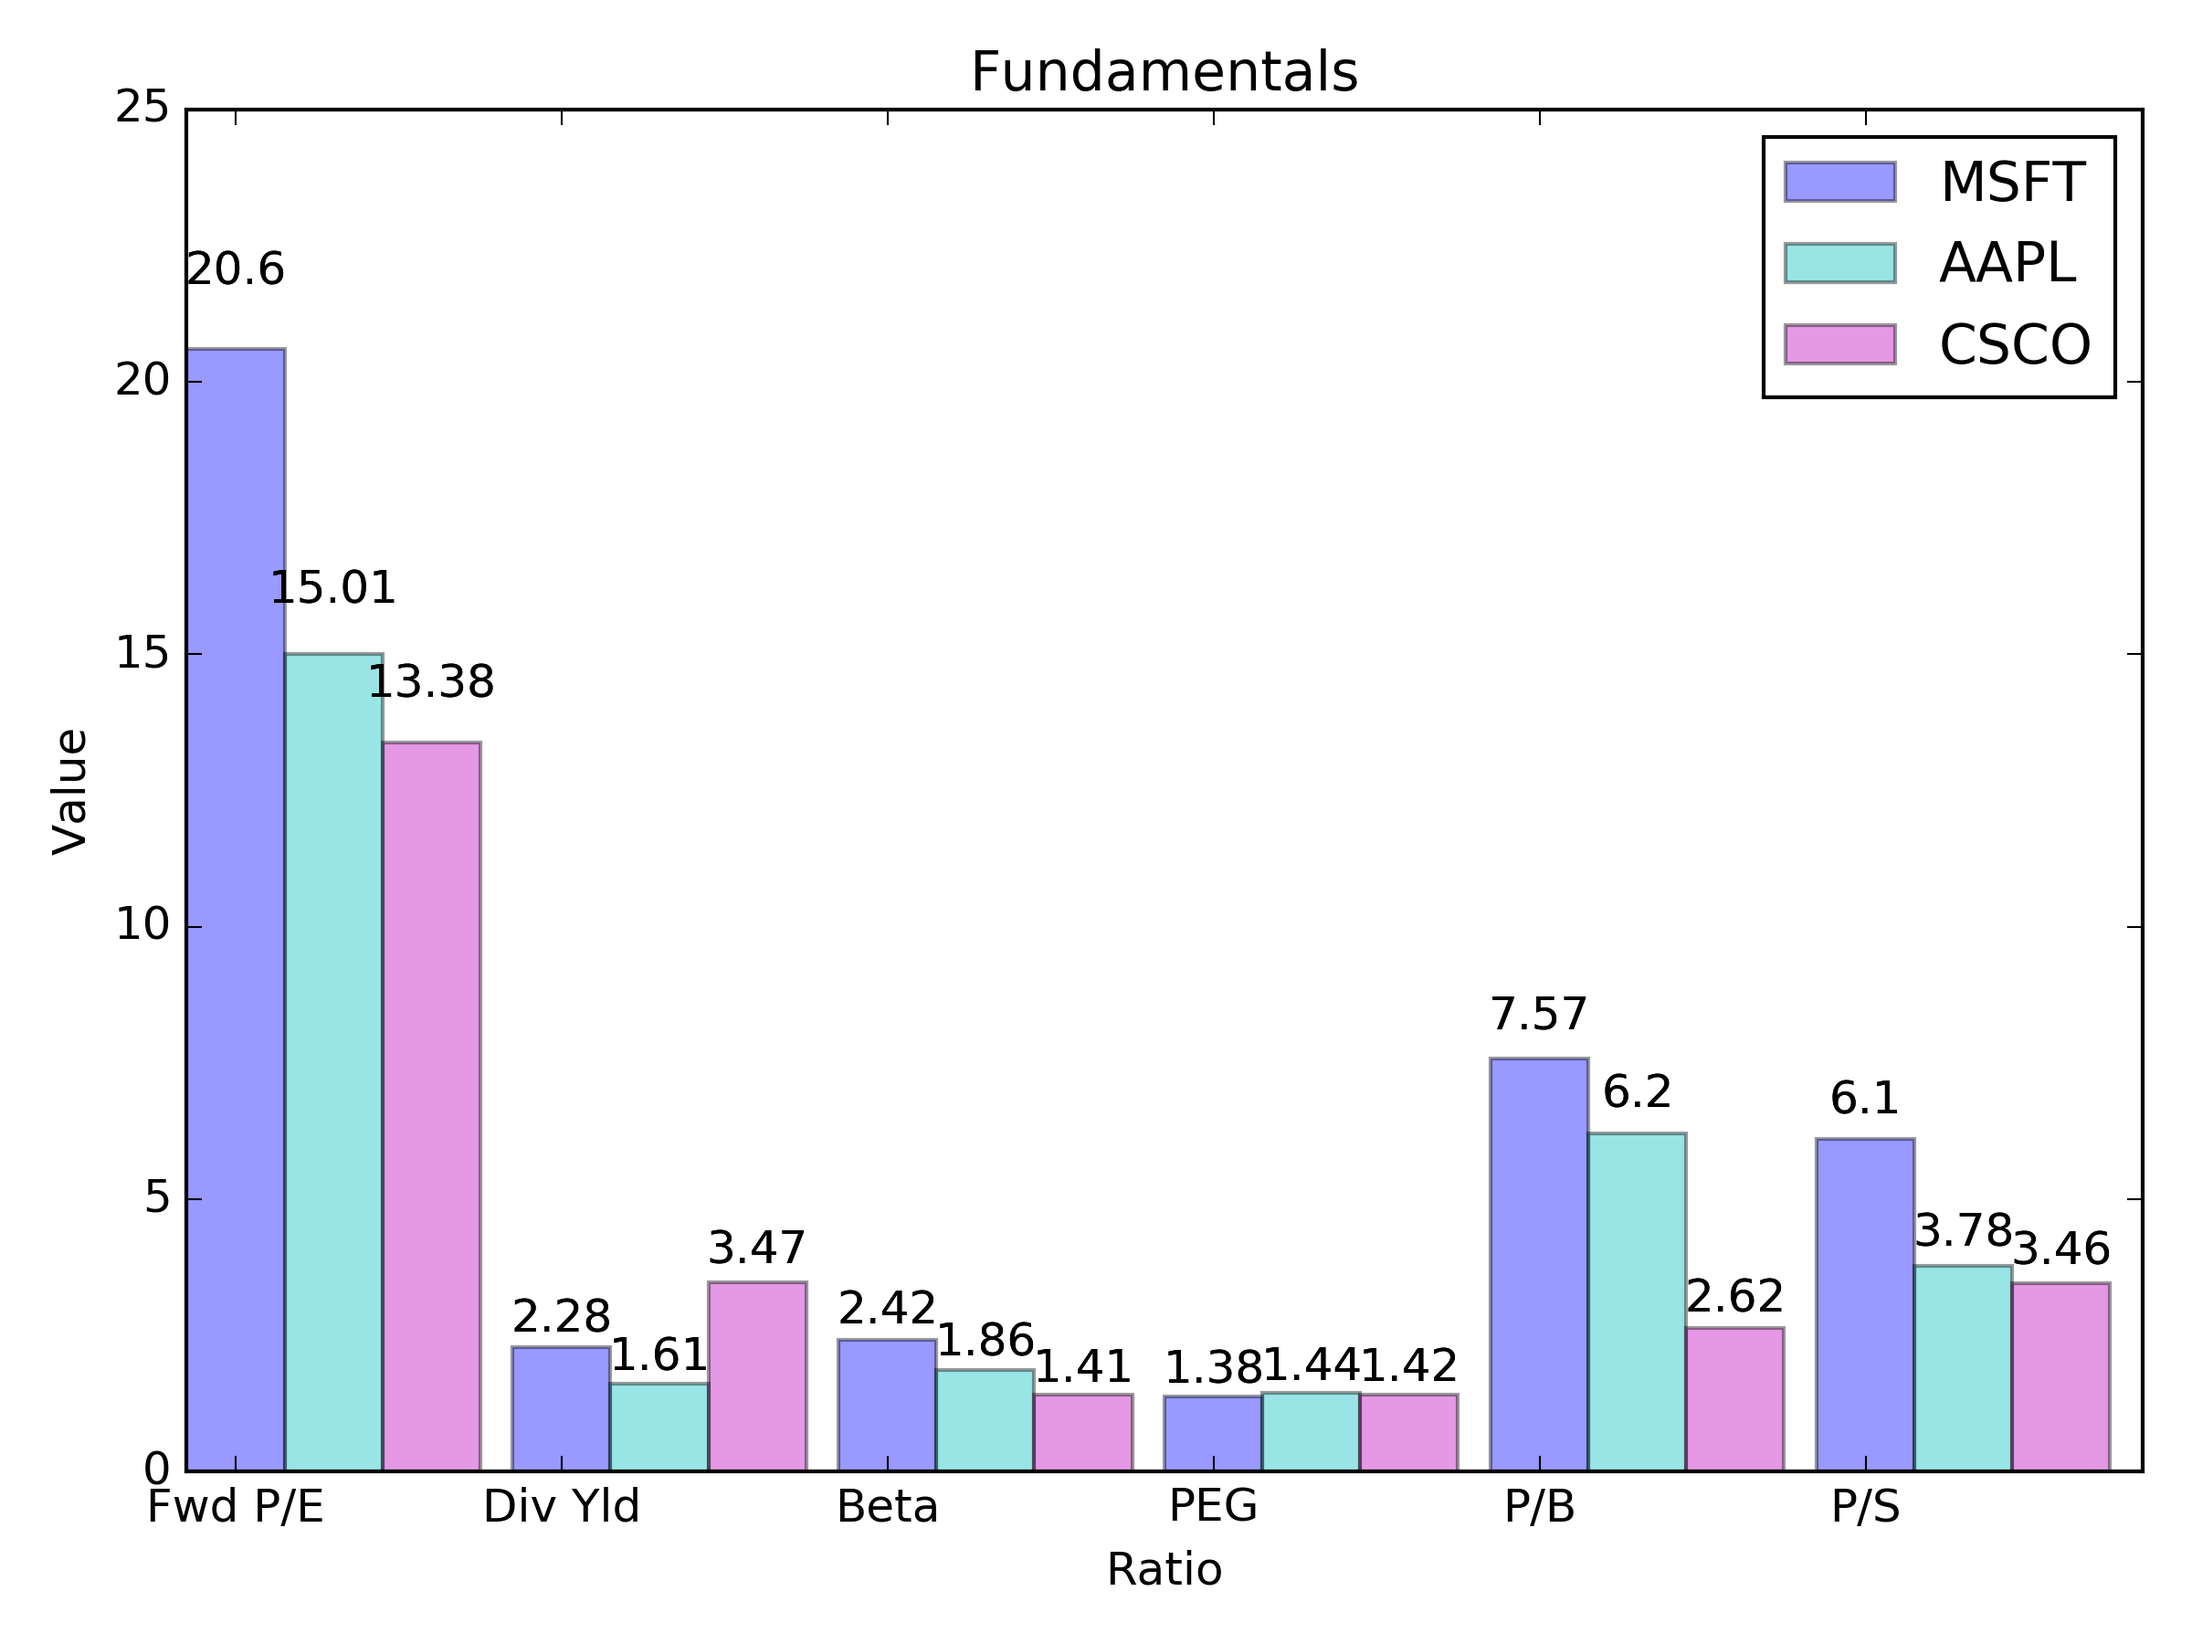
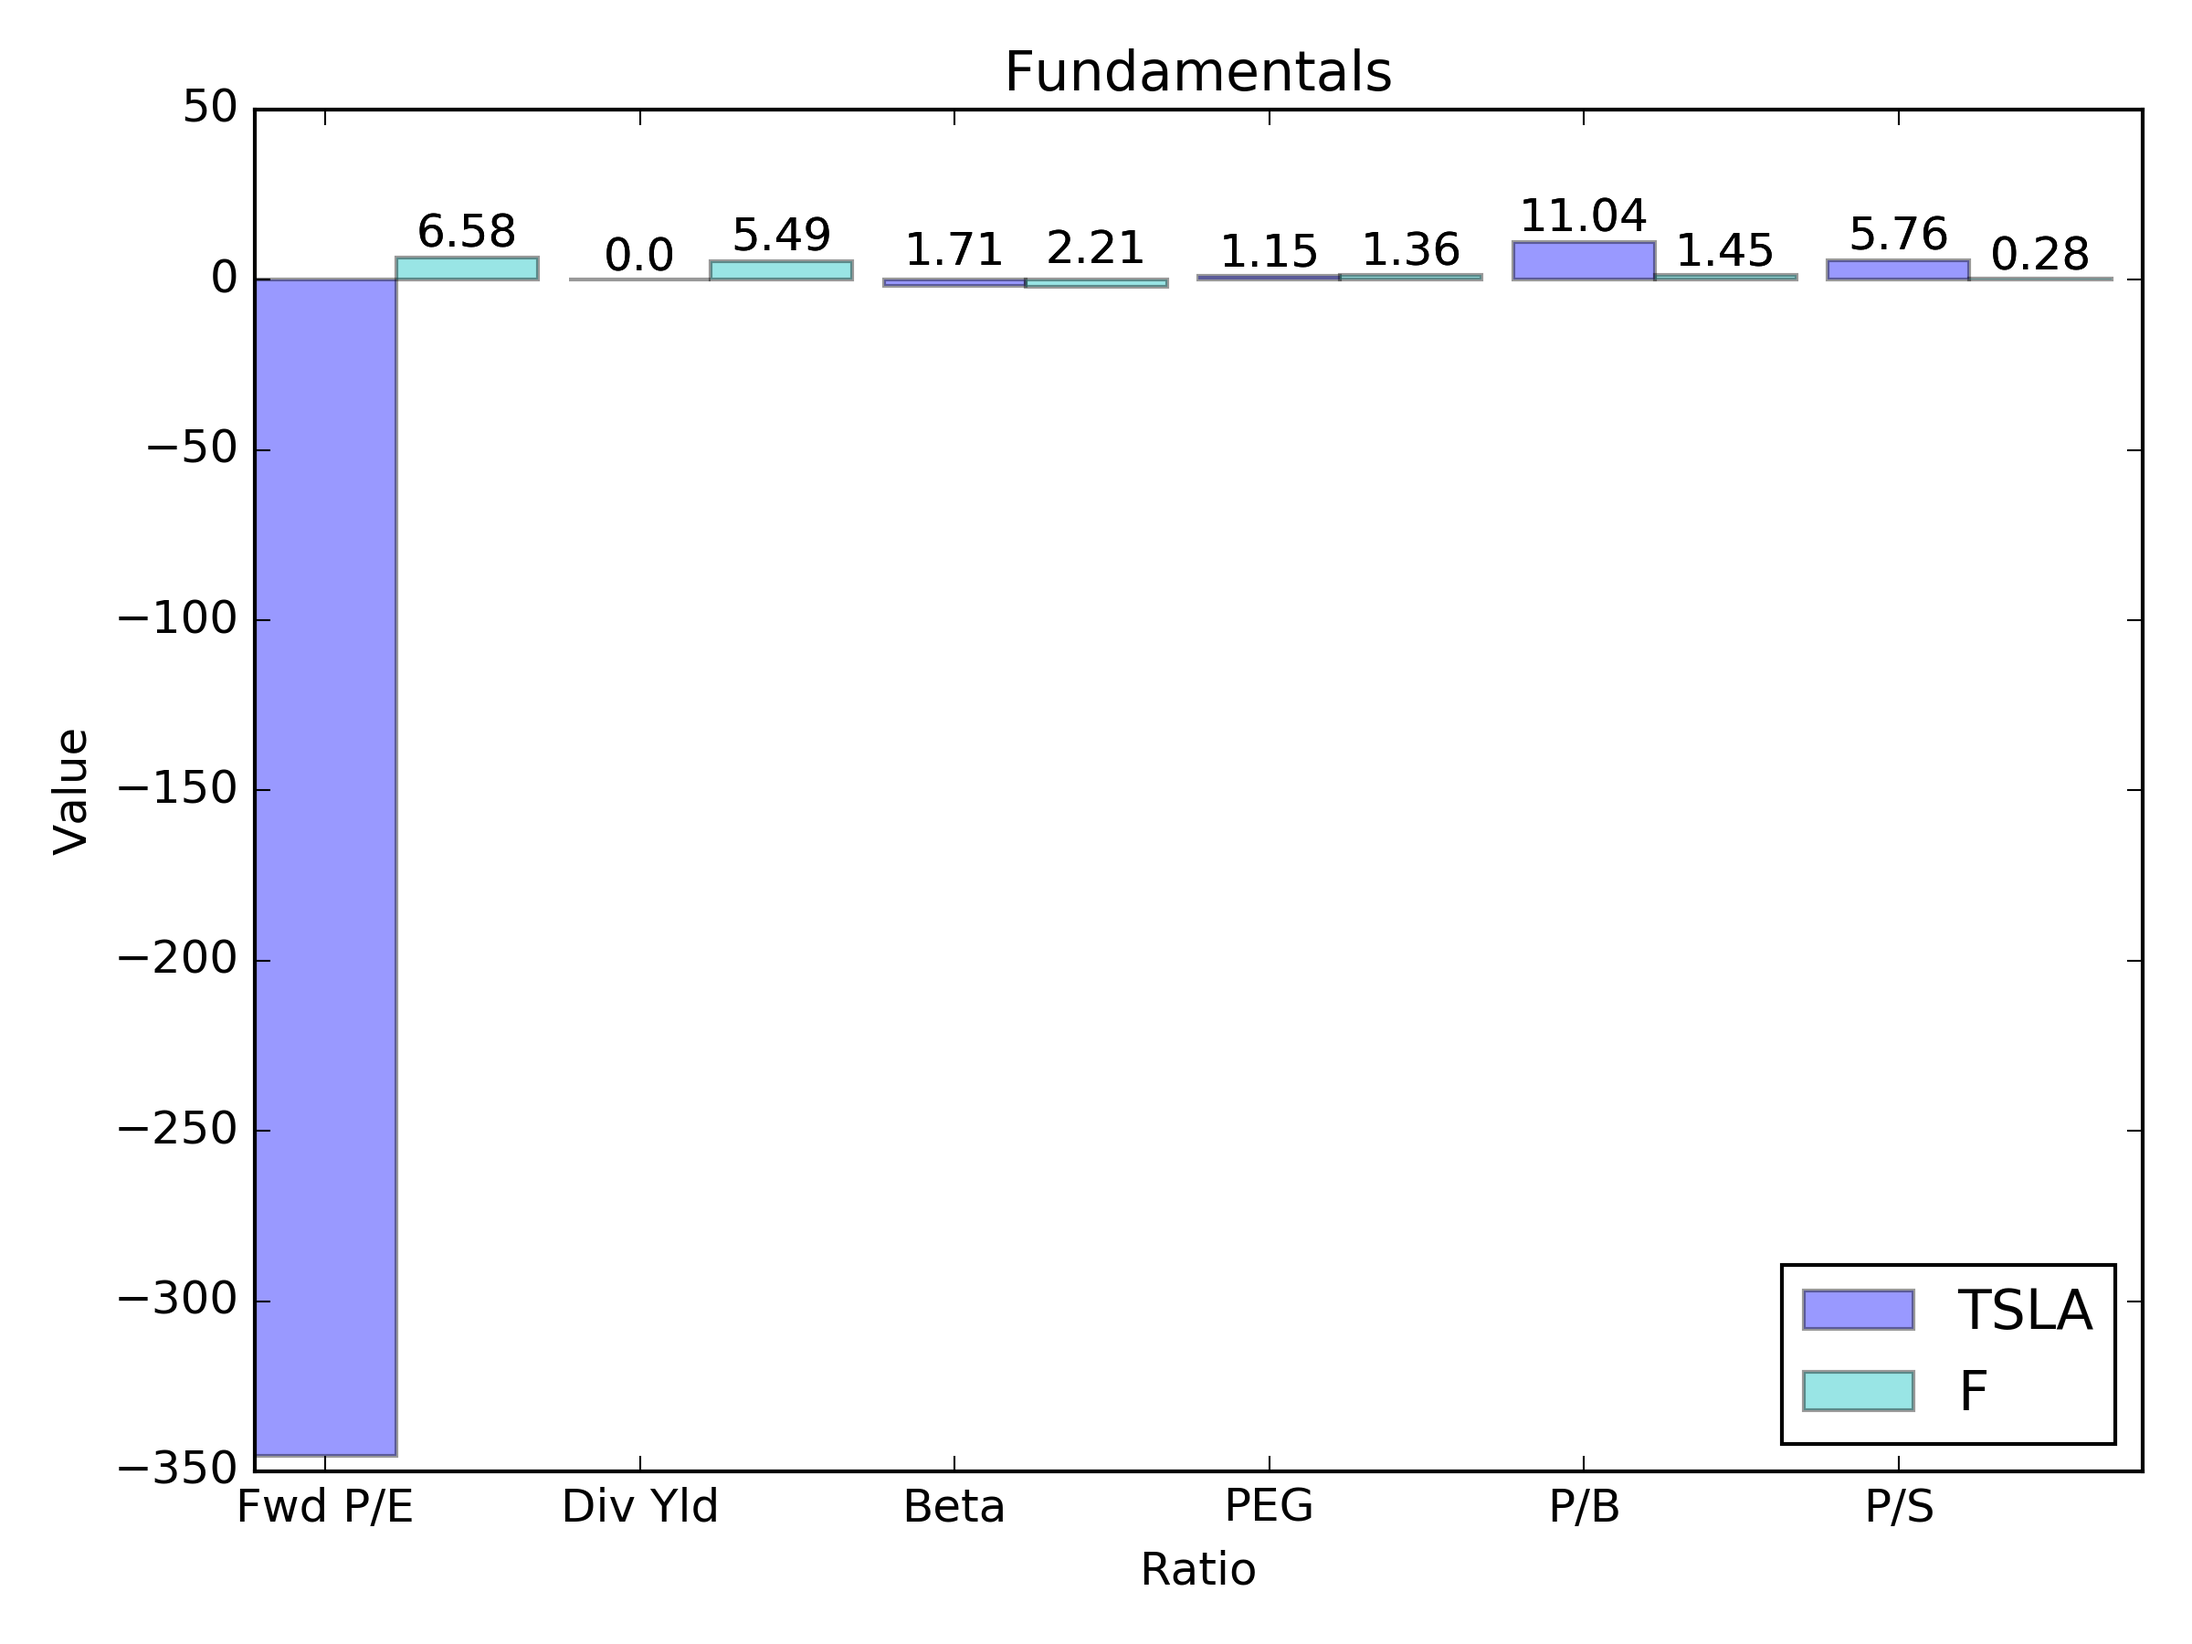
still having problems fetching s and p 500 data of all things

diff --git a/app/equity/data_grab/morningstar_dg.py b/app/equity/data_grab/morningstar_dg.py
@@ -56,8 +56,6 @@ def makeAPICall(tick):
     data = pruneData(data, dates, tick)
     return data
     
-    
-    
 
 def pruneData(df, dates, tick):
     df = df.set_index(0)
@@ -88,14 +86,13 @@ def addCustomColumns(df):
     end_date_ls = [int(d) for d in datetime.date.today().strftime('%Y-%m-%d').split("-")]
     end = datetime.date(end_date_ls[0], end_date_ls[1], end_date_ls[2])
     import pdb; pdb.set_trace()
-    market = DataReader(".INX", 'google', start, end)['Close']
-    quotes = DataReader(df.index.get_level_values('ticker')[0], 'google', start, end)['Close']
-    quotes['market'] = market
-    import pdb; pdb.set_trace()
+    quotes = DataReader(df.index.get_level_values('ticker')[0], 'google', start, end, pause=1)['Close']
     qr = quotes.reset_index()
     df = addBasicCustomCols(df, qr)
     df = addGrowthCustomCols(df, qr)
     df = addTimelineCustomCols(df, qr, quotes)
+    market = DataReader("^GSPC", 'yahoo', start, end, pause=1)['Close']
+    quotes['market'] = market
     '''
     Still need to do:
     'enterpriseToEbitda'
@@ -104,7 +101,6 @@ def addCustomColumns(df):
     'shortRatio'
     
     'Treynor / beta'
-    'sortino / downside vol'
     '''
     return df
     
@@ -115,16 +111,13 @@ def addTimelineCustomCols(df, qr, quotes):
                         int(x['month']),1)].iloc[0]['Close'], axis=1)
     df['200DayMvgAvg'] = df.apply(lambda x: mv_avg_50[mv_avg_50['Date'] >= datetime.date(int(x.name[1]), \
                         int(x['month']),1)].iloc[0]['Close'], axis=1)
-    vol_stdev = quotes.rolling(window=252, center=False).std().reset_index()  # using one year window
+    vol_stdev = quotes.rolling(window=1260, center=False).std().reset_index()   # using 5 year window
     df['volatility'] = (df.apply(lambda x: vol_stdev[vol_stdev['Date'] >= datetime.date(int(x.name[1]), \
                         int(x['month']),1)].iloc[0]['Close'], axis=1)) / df['currentPrice']
-    import pdb; pdb.set_trace()
-    df['sharpeRatio'] = df['1yrReturn'] / df['volatility']
-    df['downsideVol'] = downside_vol(df, vol_stdev, qr) / df['currentPrice']
-    df['sortinoRatio'] = df['1yrReturn'] / df['downside_vol']
-    # df['treynorRatio'] = df['1yrReturn'] / df['beta']
-    # Need to loop through and remove all pos st_devs then calc vol for each year window
-    
+    df['sharpeRatio'] = df['5yrReturn'] / df['volatility']                      # using 5 year window
+    df['downsideVol'] = downside_vol(df, vol_stdev, qr) / df['currentPrice']    # using 5 year window
+    df['sortinoRatio'] = df['5yrReturn'] / df['downsideVol']                   # using 5 year window
+    # df['treynorRatio'] = df['5yrReturn'] / df['beta']
     return df
 
 def beta(df, qr):
@@ -139,7 +132,7 @@ def downside_vol(df, vol_stdev, qr):
     neg = qr[qr['Close']<0]
     dv = []
     for ind, vals in df.iterrows():
-        dv.append(neg[(neg['Date'] >= datetime.date(int(ind[1])-1,int(vals['month']),1)) \
+        dv.append(neg[(neg['Date'] >= datetime.date(int(ind[1])-5,int(vals['month']),1)) \
                                     & (qr['Date'] <= datetime.date(int(ind[1]),int(vals['month']),1))]['Close'].std())
     return dv  
 
@@ -220,11 +213,7 @@ def addGrowthCustomCols(df, qr):
     df['52WeekLow'] = min52
     df['52WeekHigh'] = max52
     return df
-    
 
-def getFirstofMonth():
-    pass
-    
 def sendToDB(df):
     pass
 

diff --git a/app/views.py b/app/views.py
@@ -8,7 +8,7 @@ from .emails import follower_notification
 from config import POSTS_PER_PAGE, MAX_SEARCH_RESULTS, LANGUAGES, DATABASE_QUERY_TIMEOUT
 from .equity.screener_eqs.equity_screener import post as eqsc_post
 from .equity.analysis_eqs.equity_analysis_http import post as eqanal_post
-from .futures.futures import post as fut_post
+from .futures.futures_http import post as fut_post
 from .bond.tsy import post as tsy_post
 from .options.vanilla.opt_vanilla import post as opt_vanilla_post
 

diff --git a/app/equity/analysis_eqs/analysis1.py b/app/equity/analysis_eqs/analysis1.py
@@ -71,4 +71,5 @@ def fundamentalsBar(tickers, date='2017-05-15'):
 
 if __name__ == "__main__":
     # customfilters(['MSFT', 'AAPL'])
-    fundamentalsBar(['MSFT', 'AAPL', 'CSCO'])
+    # fundamentalsBar(['MSFT', 'AAPL', 'CSCO'])
+    fundamentalsBar(['TSLA', 'F'])
